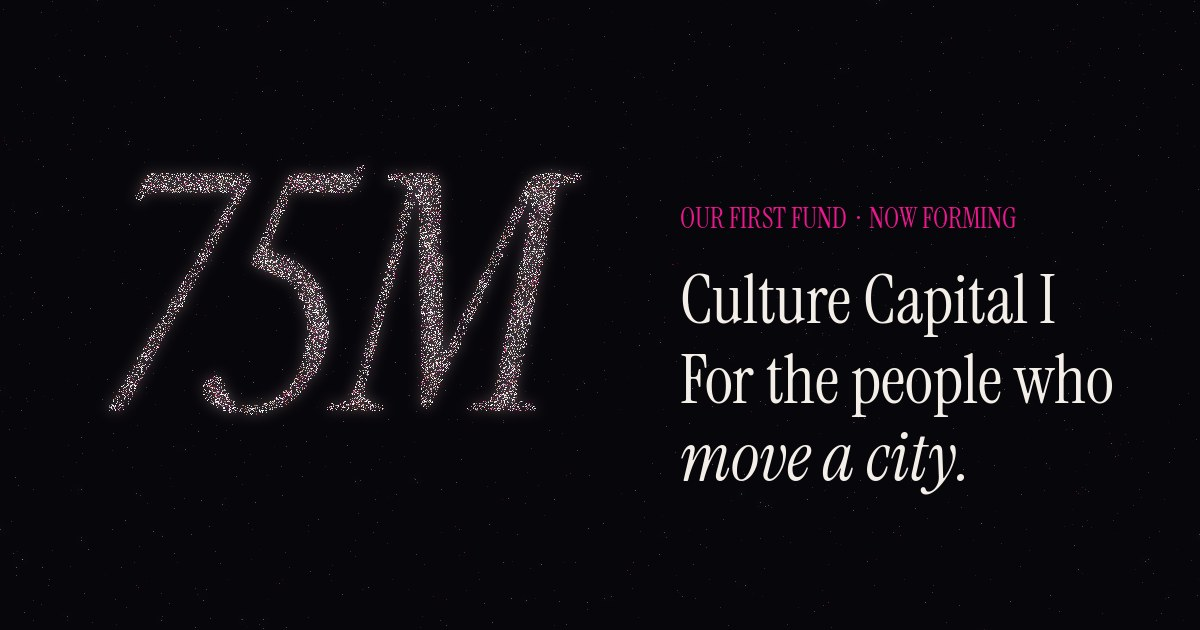
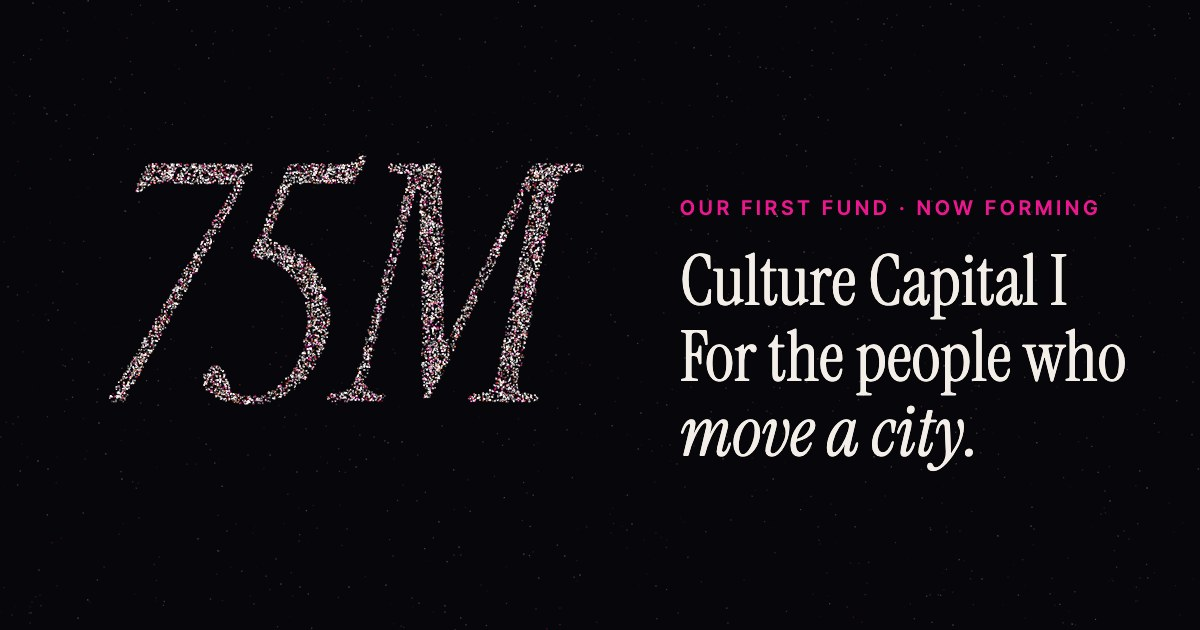
Share cards that show what each link is: the front page, /stockholm, /eventverktyg and /culture-capital get their own card (scripts/og-pages.mjs), /felix-civalero keeps his photo, the legal pages and login get their own titles

Changed region(s): [[0.555, 0.3921, 0.9558, 0.7841], [0.0925, 0.2413, 0.4933, 0.6635], [0.555, 0.3016, 0.925, 0.3619]]

diff --git a/frontend/src/pages/homeMeta.js b/frontend/src/pages/homeMeta.js
@@ -2,6 +2,11 @@
    time by the pages plugin in vite.config.js. The front page's own tags are
    the ones in index.html. */
 const SITE = "https://pullup.se";
+// Share cards: public/og/<page>.jpg, drawn by scripts/og-pages.mjs. Bump when
+// a card is redrawn so link previews fetch the new one.
+const OG_VERSION = 1;
+const card = (name) => `${SITE}/og/${name}.jpg?v=${OG_VERSION}`;
+export const HOME_CARD = { image: card("home"), alt: "Creative powerhouse — PullUp, Stockholm" };
 
 export const HOME_TITLE = "Creative powerhouse — PullUp";
 
@@ -9,6 +14,8 @@ export const GUIDE_META = {
   title: "Hitta kultur i Stockholm — PullUp",
   description: "Allt som händer i Stockholm på en sida: musik, konst och scen. Filtrera på det du gillar och få det på mejl varje torsdag. Gratis.",
   url: `${SITE}/stockholm`,
+  image: card("stockholm"),
+  alt: "Stockholm — allt som händer, på ett ställe. Varje torsdag på mejl.",
 };
 
 // Culture Capital: a letter Felix sends himself. Not in the menu, not in the
@@ -17,7 +24,7 @@ export const CULTURE_META = {
   title: "Culture Capital I — a SEK 75M fund for culture and love",
   description: "A SEK 75M fund to find and back the people who move a city. In a world AI can predict, the one thing left is what people feel.",
   url: `${SITE}/culture-capital`,
-  image: `${SITE}/og/culture-capital.jpg`,
+  image: card("culture-capital"),
   alt: "Culture Capital I — a SEK 75M fund to find and back the people who move a city.",
   noindex: true,
 };
@@ -26,6 +33,8 @@ export const FELIX_META = {
   title: "Felix Civalero Stolpe — Jag bygger varumärken. Tillväxt som håller.",
   description: "Jag bygger varumärken – för företag, kreatörer och artister. Content, marknadsföring och tillväxt som håller.",
   url: `${SITE}/felix-civalero`,
+  image: card("felix-civalero"),
+  alt: "Felix Civalero Stolpe — Jag bygger varumärken. Tillväxt som håller.",
   jsonLd: [{
     "@context": "https://schema.org",
     "@type": "Person",
@@ -34,4 +43,19 @@ export const FELIX_META = {
     worksFor: { "@type": "Organization", name: "PullUp", url: `${SITE}/` },
     email: "felix@pullup.se",
   }],
+};
+
+// The legal pages and login: their own titles, the front page's card.
+const legal = (path, title, description) => ({ title: `${title} — PullUp`, description, url: `${SITE}/${path}`, ...HOME_CARD });
+export const LEGAL_META = {
+  privacy: legal("privacy", "Integritetspolicy", "Hur PullUp hanterar personuppgifter: vad vi sparar, varför, hur länge och hur du får dem raderade."),
+  terms: legal("terms", "Villkor", "Villkoren för att använda PullUp och eventverktyget."),
+  cookies: legal("cookies", "Cookies och lagring", "Den enda cookie PullUp frågar om räknar unika besökare. Här ser och ändrar du ditt val."),
+};
+export const LOGIN_META = {
+  title: "Logga in — PullUp",
+  description: "Logga in på PullUp med en kod till din e-post. Första gången skapas ditt konto, gratis.",
+  url: `${SITE}/login`,
+  ...HOME_CARD,
+  noindex: true,
 };

diff --git a/frontend/index.html b/frontend/index.html
@@ -15,8 +15,8 @@
 
     <!-- Open Graph. Absolute URLs so strict crawlers (Instagram via Facebook)
          don't drop the preview. Bump the image ?v= whenever the card art
-         changes to bust Facebook's ~24h cache. og-agency.jpg is the homepage
-         card. -->
+         changes to bust Facebook's ~24h cache. og/home.jpg is the front page's
+         card (scripts/og-pages.mjs draws it and the other pages' cards). -->
     <meta property="og:type" content="website" />
     <meta property="og:url" content="https://pullup.se/" />
     <meta property="og:site_name" content="PullUp" />
@@ -24,19 +24,19 @@
     <meta property="og:locale:alternate" content="en_US" />
     <meta property="og:title" content="Creative powerhouse — PullUp" />
     <meta property="og:description" content="PullUp är en creative powerhouse i Stockholm. Vi bygger världar runt kärnan i ert varumärke – content, tillväxt och upplevelser. Online, i AI-svaren och på riktigt." />
-    <meta property="og:image" content="https://pullup.se/og-agency.jpg?v=7" />
-    <meta property="og:image:secure_url" content="https://pullup.se/og-agency.jpg?v=7" />
+    <meta property="og:image" content="https://pullup.se/og/home.jpg?v=1" />
+    <meta property="og:image:secure_url" content="https://pullup.se/og/home.jpg?v=1" />
     <meta property="og:image:type" content="image/jpeg" />
     <meta property="og:image:width" content="1200" />
     <meta property="og:image:height" content="630" />
-    <meta property="og:image:alt" content="Creative powerhouse — PullUp" />
+    <meta property="og:image:alt" content="Creative powerhouse — PullUp, Stockholm" />
 
     <!-- Twitter / X -->
     <meta name="twitter:card" content="summary_large_image" />
     <meta name="twitter:title" content="Creative powerhouse — PullUp" />
     <meta name="twitter:description" content="PullUp är en creative powerhouse i Stockholm. Vi bygger världar runt kärnan i ert varumärke – content, tillväxt och upplevelser. Online, i AI-svaren och på riktigt." />
-    <meta name="twitter:image" content="https://pullup.se/og-agency.jpg?v=7" />
-    <meta name="twitter:image:alt" content="Creative powerhouse — PullUp" />
+    <meta name="twitter:image" content="https://pullup.se/og/home.jpg?v=1" />
+    <meta name="twitter:image:alt" content="Creative powerhouse — PullUp, Stockholm" />
 
     <!-- Structured data: who we are and what we sell -->
     <script type="application/ld+json">
@@ -46,7 +46,7 @@
         "name": "PullUp",
         "url": "https://pullup.se/",
         "logo": "https://pullup.se/pwa-icon-512.png",
-        "image": "https://pullup.se/og-agency.jpg?v=7",
+        "image": "https://pullup.se/og/home.jpg?v=1",
         "description": "PullUp är en creative powerhouse i Stockholm. Vi bygger världar runt kärnan i ert varumärke – content, tillväxt och upplevelser. Online, i AI-svaren och på riktigt.",
         "email": "felix@pullup.se",
         "areaServed": ["Stockholm"],

diff --git a/frontend/vite.config.js b/frontend/vite.config.js
@@ -115,6 +115,7 @@ function pagesPlugin() {
           file: `${p}.html`,
           html: withMeta(shell, {
             title: product.PRODUCT_TITLE, description: product.PRODUCT_DESCRIPTION, url: product.PRODUCT_URL, jsonLd: product.productJsonLd(),
+            image: product.PRODUCT_CARD.image, alt: product.PRODUCT_CARD.alt,
           }),
         })),
         { route: "/stockholm", file: "stockholm.html", html: withMeta(shell, home.GUIDE_META) },
@@ -125,7 +126,9 @@ function pagesPlugin() {
           file: `work/${c.slug}.html`,
           html: withMeta(shell, { title: c.pageTitle, description: c.description, url: c.url, type: "article", image: c.image, alt: c.alt }),
         })),
-        ...["privacy", "terms", "cookies"].map((p) => ({ route: `/${p}`, file: `${p}.html`, html: shell })),
+        ...["privacy", "terms", "cookies"].map((p) => ({ route: `/${p}`, file: `${p}.html`, html: withMeta(shell, home.LEGAL_META[p]) })),
+        // Own tags for link previews only; the page itself draws in the browser.
+        { route: "/login", file: "login.html", html: withMeta(shell, home.LOGIN_META), shellOnly: true },
       ];
 
       const { createServer } = await import("vite");
@@ -148,6 +151,10 @@ function pagesPlugin() {
         const { render } = await server.ssrLoadModule("/src/entry-prerender.jsx");
         for (const page of pages) {
           let html = page.html;
+          if (page.shellOnly) {
+            writeFileSync(join(root, page.file), html);
+            continue;
+          }
           try {
             const body = await render(page.route);
             if (!html.includes('<div id="root"></div>')) throw new Error("no empty #root in index.html");

diff --git a/frontend/src/pages/productMeta.js b/frontend/src/pages/productMeta.js
@@ -5,6 +5,8 @@
 // before adding one (backend actions/, repos/hostEvents.js, lib/emailCredits.js).
 
 export const PRODUCT_URL = "https://pullup.se/eventverktyg";
+// Share card drawn by scripts/og-pages.mjs (bump ?v= when redrawn).
+export const PRODUCT_CARD = { image: "https://pullup.se/og/eventverktyg.jpg?v=1", alt: "Fyll rummet. Gratis. — PullUps eventverktyg" };
 export const PRODUCT_TITLE = "PullUp – gratis eventsida med anmälan, kalenderinbjudan och gästlista";
 export const PRODUCT_DESCRIPTION =
   "Skapa en eventsida på en minut, ta emot anmälningar med bekräftelsemejl och kalenderinbjudan, håll koll på gästlistan och mejla dina gäster. Gratis – du betalar bara för stora utskick. Din AI kan göra allt åt dig.";
